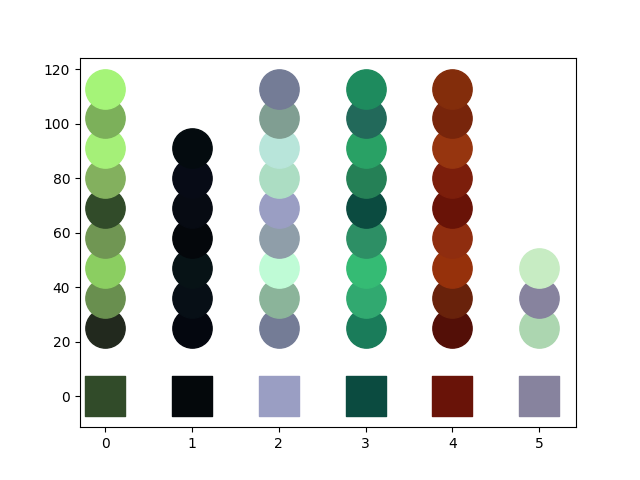
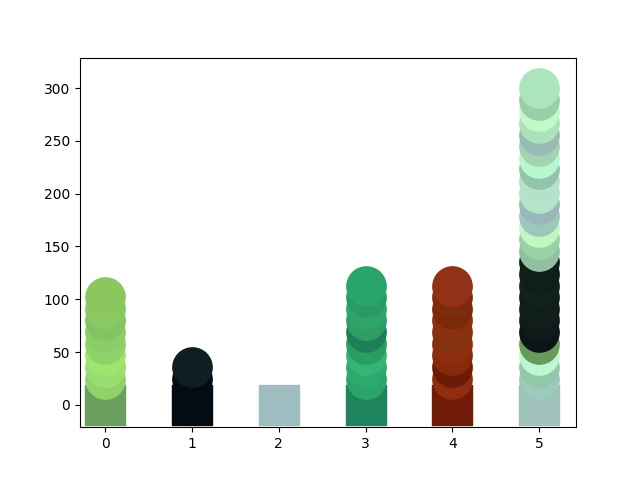
upadte nam parti

diff --git a/Nam/testBis.py b/Nam/testBis.py
@@ -27,7 +27,7 @@ def coord2(s,f):
 
 # assemble x,y coordinates and sticker colors into three arrays
 def donnees(data):
-    x, y, color, color_true, group_color = [], [], [], [], []
+    x, y, color, color_true, group_color,tab_inter = [], [], [], [], [],[]
     max_reading = 0
     
     tab_new_rgb_centre=[]
@@ -43,17 +43,24 @@ def donnees(data):
             x.append(tx)
             y.append(ty)
             color.append([round(r)/round(max_reading), round(g)/round(max_reading), round(b)/round(max_reading)])
+            tab_inter.append([r,g,b])
+            #color.append([round(r)/255, round(g)/255, round(b)/255])
             if f == 4:
+                rateRed = (round(r)/round(max_reading)) * 100
+                rateGreen =(round(g)/round(max_reading)) * 100
+                rateBlue = (round(b)/round(max_reading)) * 100
+                print 'Taux rouge: ', rateRed , ' - Taux Vert: ', rateGreen, ' - Taux Bleu: ', rateBlue
                 color_true.append([r, g, b])
-                new_r = round(r/(r+g+b),3)
-                new_g = round(g/(r+g+b),3)
-                new_b = round(b/(r+g+b),3)
+                new_r = round(rateRed/(rateRed+rateGreen+rateBlue),3)
+                new_g = round(rateGreen/(rateRed+rateGreen+rateBlue),3)
+                new_b = round(rateBlue/(rateRed+rateGreen+rateBlue),3)
+                print '% rouge: ', new_r , ' - % Vert: ', new_g, ' - % Bleu: ', new_b
         tab_new_rgb_centre.append([new_r,new_g,new_b])
-    return x,y,color, tab_new_rgb_centre, color_true, max_reading
+    return x,y,color, tab_new_rgb_centre, color_true, max_reading,tab_inter
 
 # draw the unfolding
 def draw(data):
-    x, y, color, tab_new_rgb_centre, c, max_color = donnees(data)
+    x, y, color, tab_new_rgb_centre, c, max_reading,tab_inter = donnees(data)
    
     n = 9
     m = 6
@@ -74,63 +81,49 @@ def draw(data):
             indice = 0
             size = len(c)
         	  
-           #v = '#{:02x}{:02x}{:02x}'.format( 200, 200 , 254 )
-           #min_color = int(v[1:], 16)
                 
             cfR =round(r/(r+g+b),3)
             cfG =round(g/(r+g+b),3)
             cfB =round(b/(r+g+b),3)
             tab_coeff.append([cfR,cfG,cfB])
-                #color_center[indice].append( [r,g,b] )
     
-
-	  #print indice
-         
-    #tab_coeff = sorted(tab_coeff.iteritems(), key=lambda (k,v): (v,k))
-    #print tab_coeff
-    #print "\n"
-    #print len(tab_coeff)
-    #print "\n"
-    #print tab_new_rgb_centre
-  
-    #print "color center taille"
-    #print len(color_center[0])
+    print tab_new_rgb_centre
+    print '\n'
+    for i in range(0,6):
+        for j in range(0,9):
+            print tab_coeff[i*9+j]
+        print '\n'
+        
     for i in range(0,54):
-        var = int(i/9)
-        m = i%9
-        ecart = 2500000
-        ok = False;
+        var = i/9
         for j in range(0,len(tab_new_rgb_centre)):
             difR = abs(tab_coeff[i][0]-tab_new_rgb_centre[j][0])
             difG = abs(tab_coeff[i][1]-tab_new_rgb_centre[j][1])
             difB = abs(tab_coeff[i][2]-tab_new_rgb_centre[j][2])
-            if(difR + difG + difB < ecart ):
-                ecart = difR+difG+difB
+            if(difR < 0.1 and difG < 0.1 and difB < 0.1):
                 var = j
-                ok = True
-        if(len(color_center[var]) < 9):
-            color_center[var].append((data[var][m]))
+        color_center[int(var)].append(tab_inter[i])
 
-
+            
     test_coeff= color_center
     tamere = []
     tonpere = []
     for i in range (0, len(c)):
-        tamere.append( [round(c[i][0])/68,  round(c[i][1]) / 68, round(c[i][2])/68] )
+        tamere.append( [round(c[i][0])/max_reading,  round(c[i][1]) / max_reading, round(c[i][2])/max_reading] )
          
 
     k = 0;
     for i in range(0,len(c)):
-        print "\n"
         plt.scatter(i, 0, s=800, marker='s', c=tamere[i])
         p = 5
         for j in range(0, len(test_coeff[i]) ):
+            print test_coeff[i][j]
             yplacer = j+10
             p +=10
             tonpere.append([round(test_coeff[i][j][0]/68,3), round(test_coeff[i][j][1]/68,3), round(test_coeff[i][j][2]/68,3)])
             plt.scatter(i, p+yplacer , s=800, marker='o', c=tonpere[k])
             k = k +1
-    
+        print '\n'
     plt.savefig('unfolding.png')
     plt.show()
     
@@ -151,6 +144,10 @@ def comparaisonStat(data1, data2):
         print data2[i]
     return compt
 
+
+
+
+
 data = [
 [[9, 11, 8],[28, 38, 21],[37, 55, 26],[30, 40, 22],[13, 20, 11],[35, 47, 25],[44, 64, 32],[33, 47, 24],[44, 65, 32],
 ],[[1, 2, 4],[2, 4, 6],[3, 6, 5],[2, 5, 6],[1, 2, 3],[2, 3, 5],[5, 9, 7],[2, 3, 6],[1, 3, 4],
@@ -168,6 +165,14 @@ data_turned =[
 ],[[35, 52, 26],[36, 54, 27],[37, 53, 25],[38, 12, 4],[29, 7, 2],[36, 11, 3],[38, 12, 4],[35, 13, 4],[37, 13, 4],
 ],[[33, 11, 3],[33, 12, 3],[39, 13, 6],[44, 56, 47],[41, 50, 48],[46, 60, 50],[52, 66, 54],[41, 55, 45],[46, 61, 50],
 ],]
+"""[[4, 4, 8],[4, 5, 8],[4, 6, 8],[3, 5, 7],[5, 7, 9],[3, 6, 7],[3, 5, 8],[4, 5, 7],[4, 5, 8]],
+[[27, 39, 44],[30, 44, 45],[26, 38, 43],[46, 52, 37],[59, 68, 45],[47, 52, 37],[22, 9, 4],[26, 10, 5],[24, 8, 5]],
+[[39, 46, 35],[29, 10, 5],[32, 37, 45],[47, 54, 38],[37, 19, 7],[36, 43, 46],[32, 34, 28],[29, 10, 4],[30, 33, 43]],
+[[27, 39, 45],[31, 45, 46],[28, 39, 44],[38, 43, 47],[52, 59, 62],[38, 43, 50],[22, 8, 4],[26, 9, 4],[20, 7, 4]],
+[[38, 44, 35],[35, 48, 50],[27, 32, 43],[48, 54, 39],[47, 64, 62],[36, 43, 48],[41, 46, 37],[35, 48, 48],[30, 35, 44]],
+[[11, 29, 32],[13, 32, 34],[9, 25, 29],[12, 33, 33],[16, 42, 41],[10, 33, 34],[11, 30, 32],[13, 33, 34],[10, 28, 30]],
+]
+"""
 
 #draw(data)
 draw(data_turned)
